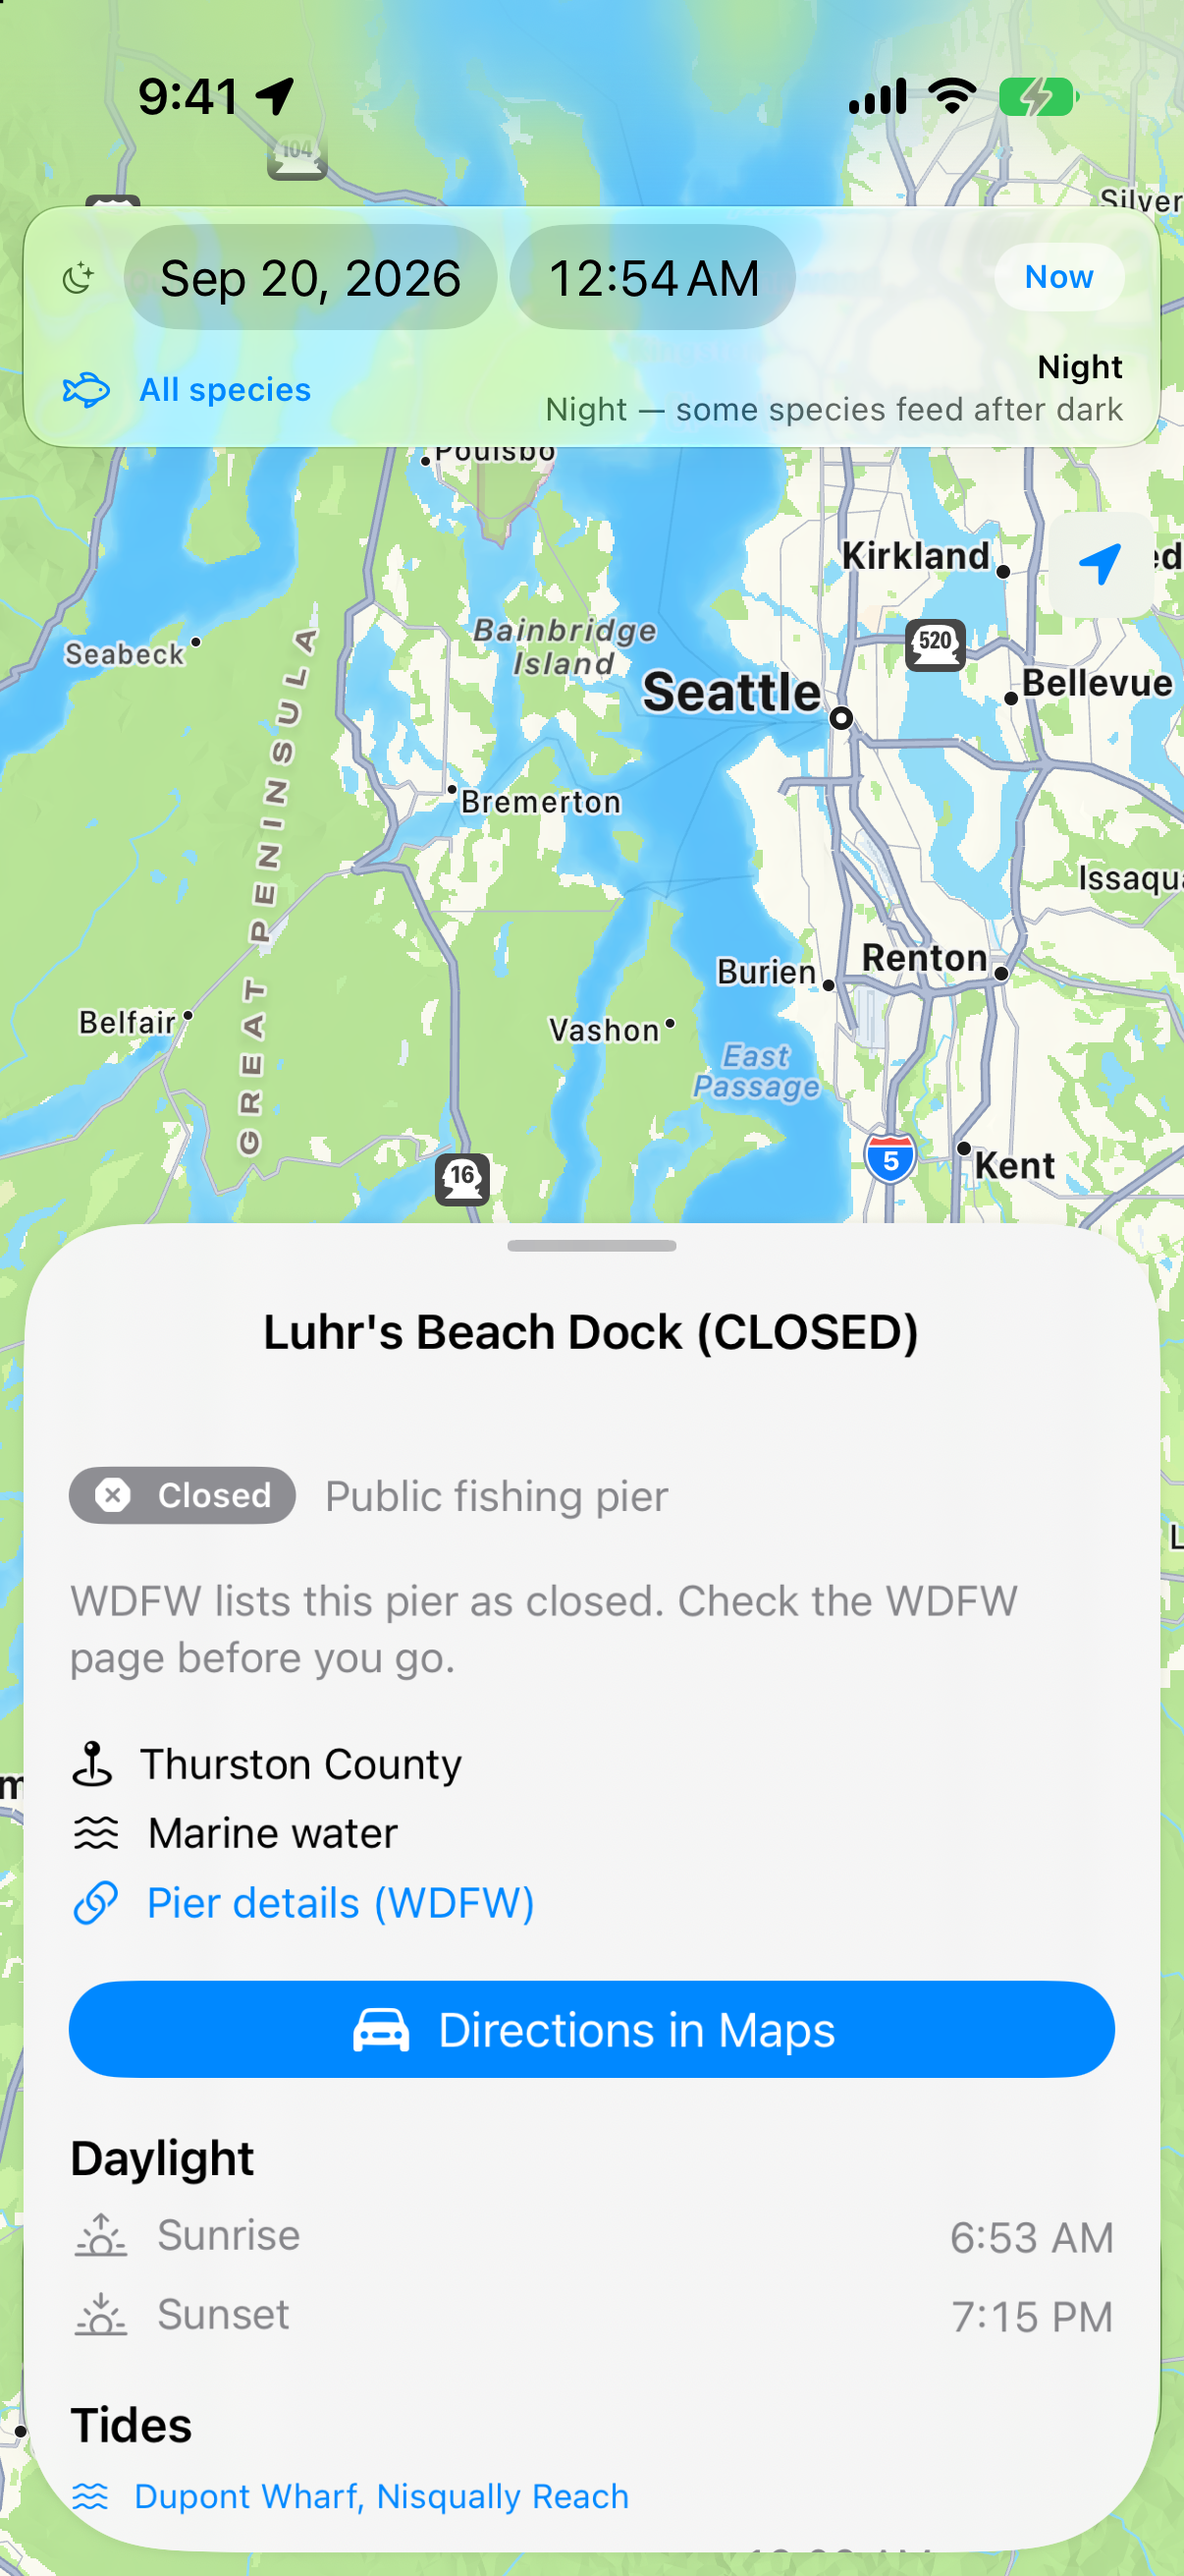
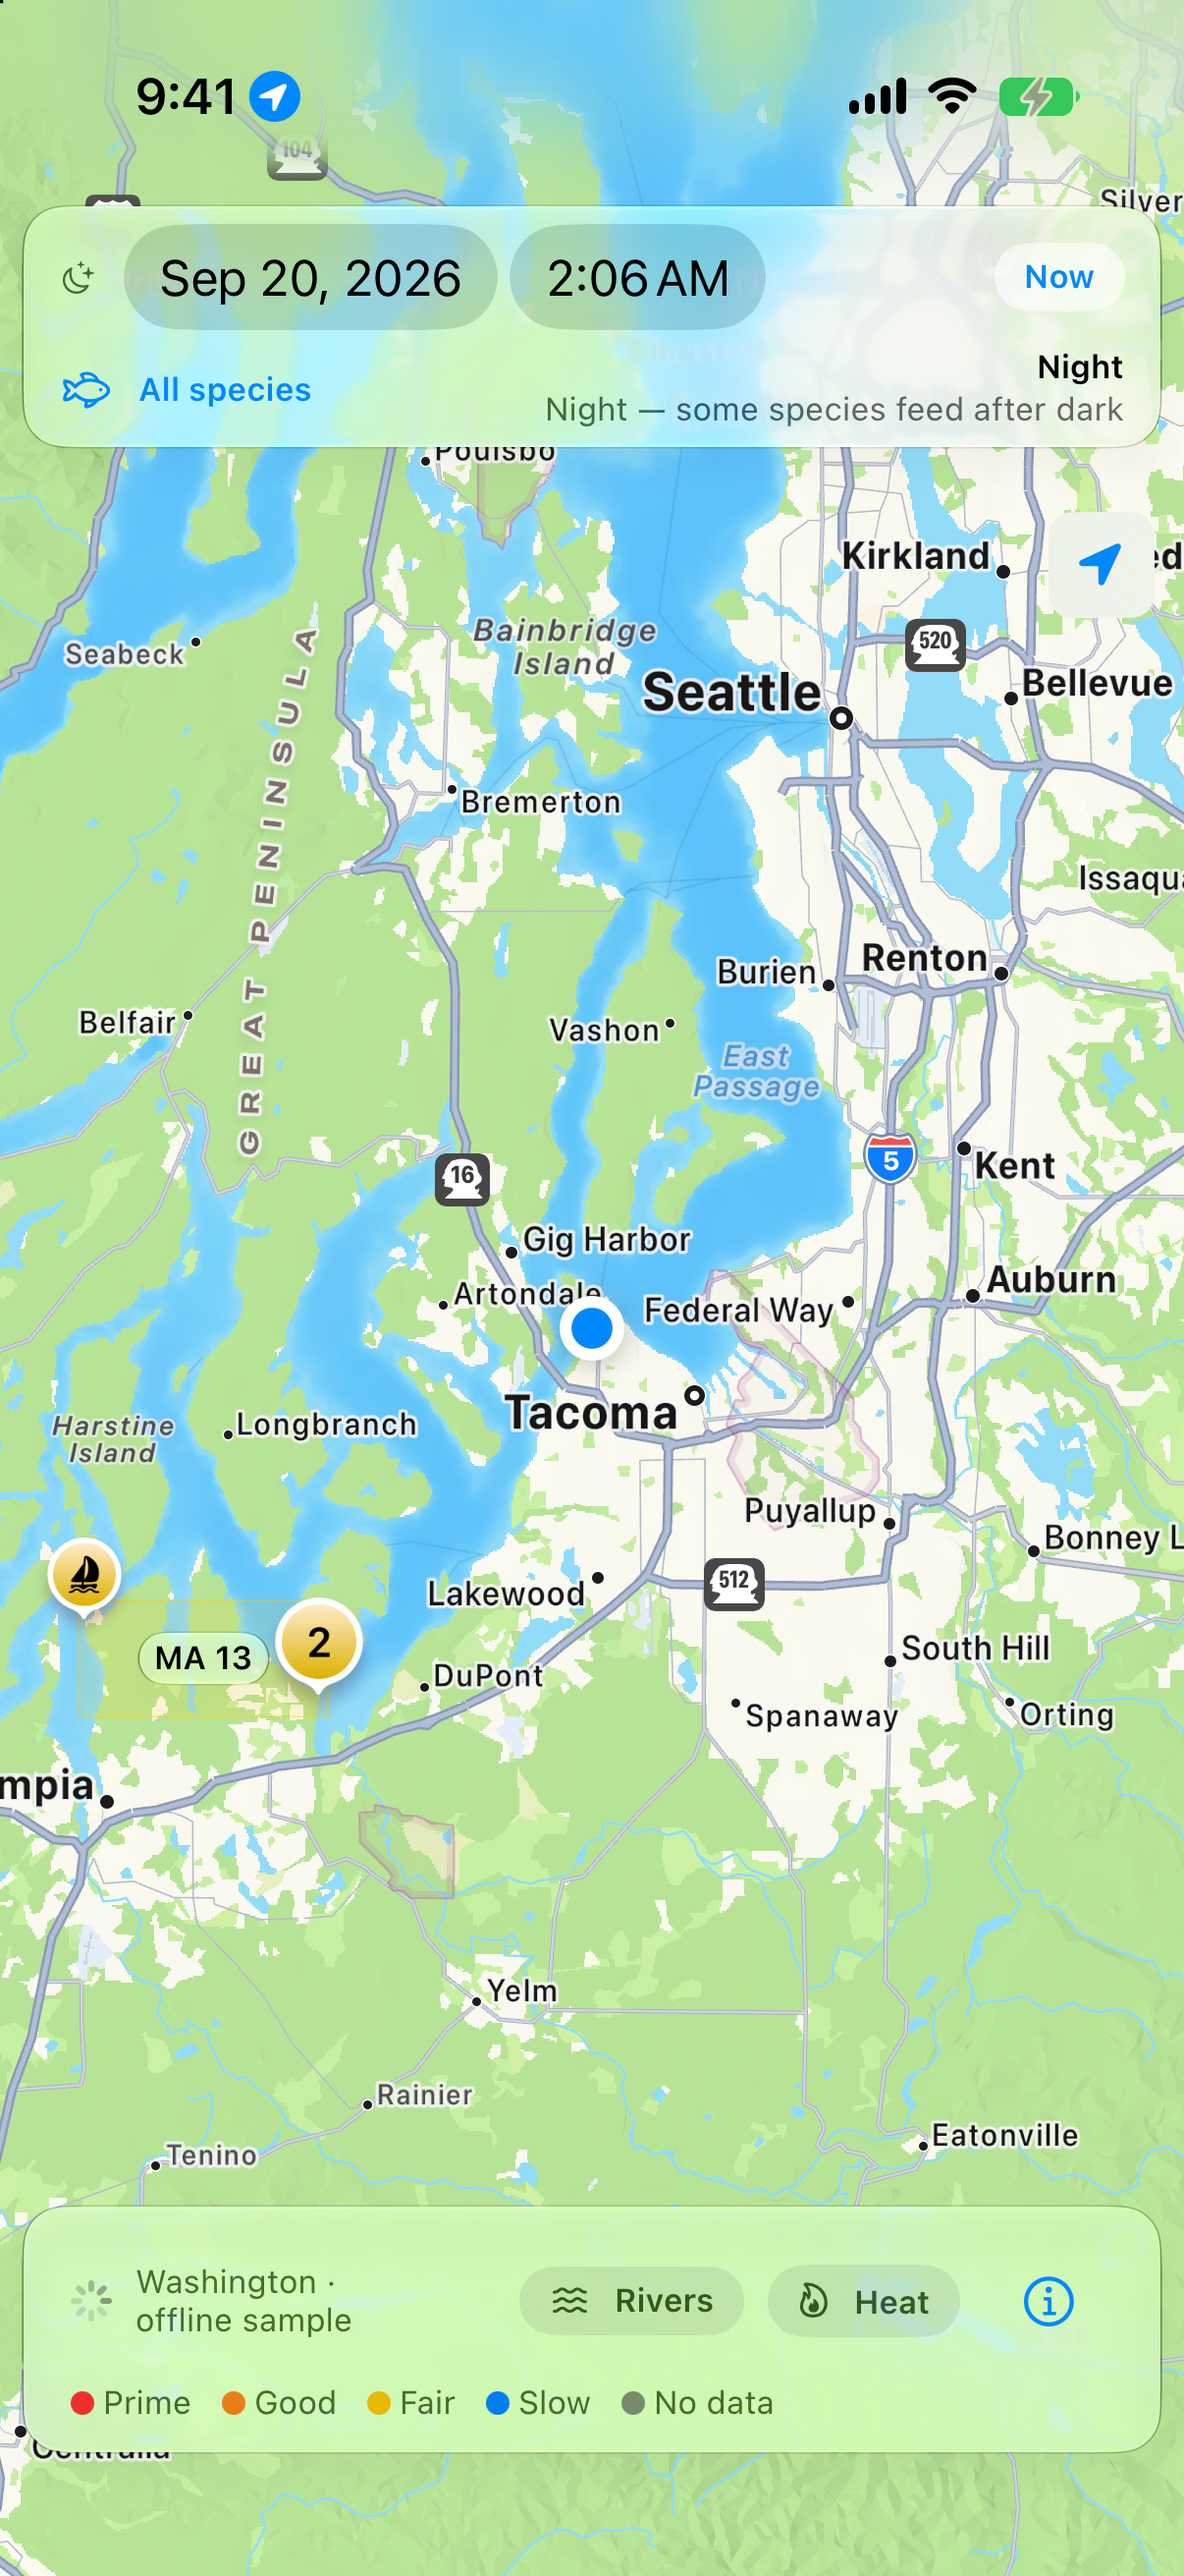
Keep white glyphs where white works, and regenerate the frames
Slice 6 is the look-at-it gate, and looking at it caught an over-correction
from slice 4.

glyphTint picked whichever ink contrasted more with the balloon, which turned
every glyph black -- including Prime and Slow, where white already clears the
3:1 floor at 3.57 and 3.52 in light. The plan said white by default and dark
only where white fails, which is both the narrower change and the platform's
own convention for a saturated marker. The maximising rule passed the numeric
gate and still looked wrong, so the gate has gained an assertion that Prime,
Slow and unrated keep white while Fair and Good take black.

Frames regenerated from a build installed at 02:06, confirmed by container
timestamp rather than assumed. The ink rule is visible in them: Good carries
black, Prime carries white, and the dark frame draws the dark ramp where it
used to draw the light one.

Suite is 297 passing.

What this commit does NOT claim: slice 6 does not pass. The light frame is a
real regional view showing Fair, Good and Prime, and they do separate, though
Prime against Good is the weak pair exactly as its 13.3 ΔL* predicted. But the
dark frame landed at a much tighter zoom with only two ratings on it, Slow
appears in no frame at all, and the closure badge appears in no frame at all.
The camera is not deterministic between runs, so these frames are not a
repeatable gate. Details in the STATUS entry.

diff --git a/WAFishMapTests/MarkerGlyphContrastTests.swift b/WAFishMapTests/MarkerGlyphContrastTests.swift
@@ -56,6 +56,27 @@ struct MarkerGlyphContrastTests {
         }
     }
 
+    /// Darkening is the exception, not the rule. Prime and Slow clear 3:1
+    /// with white, so they must keep it: an ink rule that merely maximises
+    /// contrast turns every glyph black, which passes the contrast gate and
+    /// still looks wrong against the platform's own markers.
+    @Test(arguments: [UIUserInterfaceStyle.light, .dark])
+    func stopsThatCanCarryWhiteKeepIt(style: UIUserInterfaceStyle) {
+        func ink(_ stop: Color) -> UIColor {
+            SiteMarkerView.glyphTint(on: UIColor(stop))
+                .resolvedColor(with: UITraitCollection(userInterfaceStyle: style))
+        }
+        let white = UIColor.white.resolvedColor(with: UITraitCollection(userInterfaceStyle: style))
+        let black = UIColor.black.resolvedColor(with: UITraitCollection(userInterfaceStyle: style))
+
+        #expect(ink(DS.Rating.prime) == white)
+        #expect(ink(DS.Rating.slow) == white)
+        #expect(ink(DS.Rating.unrated) == white)
+        // The two that genuinely cannot: white measures 1.51 and 2.31 on them.
+        #expect(ink(DS.Rating.fair) == black)
+        #expect(ink(DS.Rating.good) == black)
+    }
+
     /// There is only one balloon state now, so this is the whole surface.
     /// The pale "season may be closed" balloon is gone: it could not carry a
     /// legible glyph and a readable rating at once, so closure became a badge.

diff --git a/WAFishMap/Map/AnnotationViews.swift b/WAFishMap/Map/AnnotationViews.swift
@@ -161,6 +161,9 @@ final class SiteMarkerView: MKMarkerAnnotationView {
         ])
     }
 
+    /// The floor a glyph must clear against its balloon.
+    static let minimumGlyphContrast = 3.0
+
     /// Ink for a glyph sitting on a filled balloon.
     ///
     /// White was used on every stop, which works on the dark end of the ramp
@@ -182,8 +185,14 @@ final class SiteMarkerView: MKMarkerAnnotationView {
                 return v <= 0.04045 ? v / 12.92 : pow((v + 0.055) / 1.055, 2.4)
             }
             let luminance = 0.2126 * linear(r) + 0.7152 * linear(g) + 0.0722 * linear(b)
-            // Contrast against white vs against black, same formula both sides.
-            return (1.05 / (luminance + 0.05)) >= ((luminance + 0.05) / 0.05) ? .white : .black
+            // White unless white actually fails. Picking whichever ink merely
+            // contrasts *more* turned every glyph black, including Prime and
+            // Slow where white already clears the floor (3.57 and 3.52 in
+            // light) -- an over-correction that passed the numeric gate and
+            // was only visible once the frames were looked at. White on a
+            // saturated marker is also the platform's own convention, so it
+            // is the default and darkening is the exception.
+            return (1.05 / (luminance + 0.05)) >= minimumGlyphContrast ? .white : .black
         }
     }
 

diff --git a/STATUS.md b/STATUS.md
@@ -443,3 +443,43 @@ current counts rather than trusting a number written here.
 - Not done: nothing here has been looked at. The arm's-length check on the
   regional frame in both appearances is slice 6 and is the real gate. The
   numbers say the proxies pass; they do not say the map reads better.
+
+### 2026-09-20 (slice 6: the frames were looked at, and the gate does not pass)
+
+- Decided: the glyph ink rule is "white unless white fails 3:1", not "whichever
+  ink contrasts more". The maximising version turned every glyph black,
+  including Prime and Slow where white already clears the floor (3.57 and 3.52
+  in light). It passed the contrast gate and looked wrong: white on a saturated
+  marker is the platform's own convention. Caught only by looking at the frames,
+  which is the entire argument for this slice existing.
+- Observed: the ink rule works on screen. Orange carries black (white measures
+  2.31 on it), Prime carries white (3.57). That second channel also helps Prime
+  separate from Good, which was not planned for.
+- Observed: the dark frame now draws the dark ramp. It previously drew the light
+  one, because the literals could not adapt. Slice 1 confirmed by eye.
+- **Not passed: slice 6's arm's-length gate.** The failure is in the observation,
+  not demonstrably in the ramp:
+  - Light frame is a genuine regional view and shows Fair, Good and Prime.
+    Fair separates from Good clearly. Prime separates from Good, but weakly --
+    consistent with their ΔL* of 13.3, the narrowest pair in the ramp.
+  - Dark frame landed at a much tighter zoom and shows only Fair and Good. Two
+    of four ratings at a non-regional zoom cannot answer "do the ratings
+    separate in dark". It is not evidence either way.
+  - Slow never appears in any frame, so the Prime/Slow collision flagged when
+    the ramp was measured (within half an L* of each other, differing by hue
+    alone) is still completely untested on screen.
+  - The closure badge never appears in any frame, so the 14pt mark on a marker
+    drawn at 0.8 has not been seen at all.
+  - The light frame is roughly 85% Good. Separation reads there because the
+    other ratings are rare exceptions, which is a much weaker test than a mixed
+    map.
+- Observed: the camera is not deterministic between runs of
+  `scripts/app_store_screenshots.sh`. Two runs twenty minutes apart produced
+  different regions and different zooms from the same 15 s wait, so the frames
+  are not comparable to each other and cannot be a repeatable gate as they
+  stand.
+- Next: the gate needs a frame that contains all five states at a fixed camera.
+  The `-uiTesting` seam already exists for the sheets and is the obvious place
+  to add it. Until then slice 6 is open, and the plan's fallback (option C, a
+  ring channel on Prime) should not be adopted or rejected -- there is no
+  observation to justify either.
